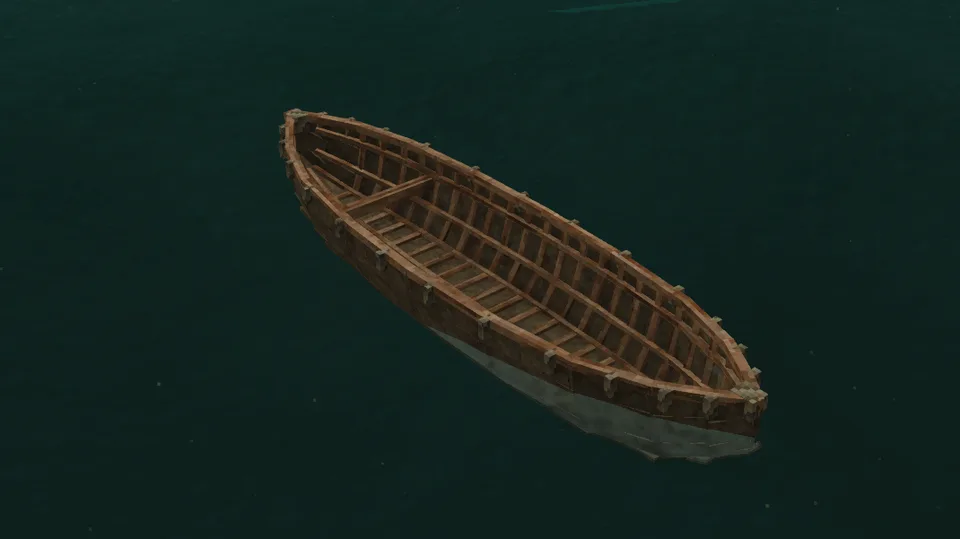
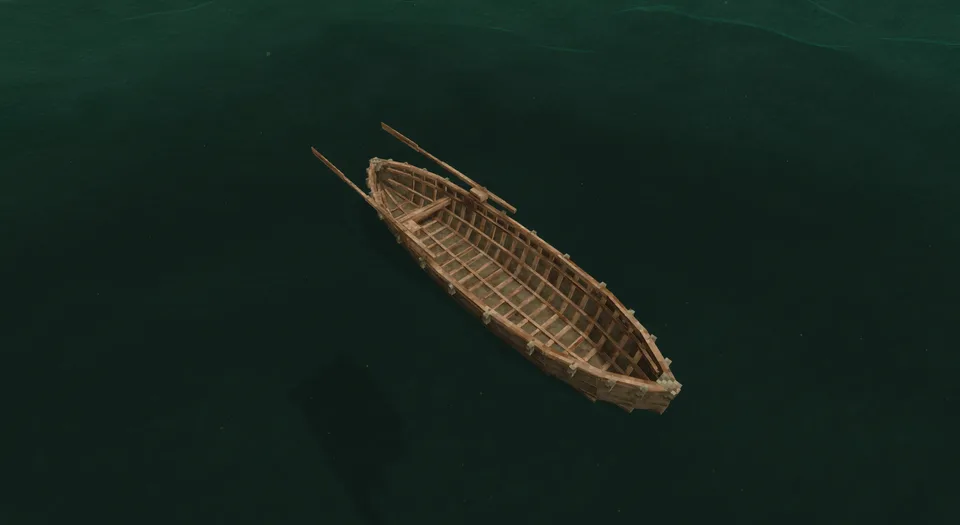
224 docs: speeds by the physics across the wiki, the currach photographed with her oars, recipes and strokes shown
[claude-opus-5-5] on behalf of hoblin

Changed region(s): [[0.2812, 0.1829, 0.8125, 0.8533]]

diff --git a/docs/wiki/Surf-and-Swamping.md b/docs/wiki/Surf-and-Swamping.md
@@ -35,7 +35,7 @@ Boats with a hull hold that water in their [bilge](Bailing), with what their [cr
 A litre of seawater weighs a kilogram, and a bilge holds hundreds. As it fills, a boat:
 
 - **rides lower.** With one aboard, a full bilge brings her gunwale down to the water, so each wave comes aboard more easily than the last;
-- **gets slower.** It paddles as hard and pushes a heavier hull, so the lighter the boat for her bilge, the more its water slows it: half full, a dugout or a coracle keeps four fifths of its speed and a hide currach, whose bilge holds 25 times her weight, two thirds. A load slows her the same way, a second rider or a hold of chests, and a hull of a light wood is a little faster than oak: a kapok dugout makes an eighth more speed, an ebony one a sixteenth less;
+- **gets slower.** It paddles as hard and pushes a heavier hull, so the lighter the boat for her bilge, the more its water slows it: half full, a dugout keeps four fifths of its speed, a bark canoe or a coracle three quarters, and a hide currach, whose bilge holds 25 times her weight, three fifths. A load slows her the same way, a second rider or a hold of chests, and a hull of a light wood is a little faster than oak: a kapok dugout makes 8% more speed, an ebony one 4% less ([how](The-Science-of-the-Hull#driving-her));
 - **rolls harder.** The water sloshing across the bilge leans with every roll and adds to it, twice the roll when full, and a breaker half as high overturns it.
 
 ## Swamping

diff --git a/docs/wiki/Paddles-Poles-and-Oars.md b/docs/wiki/Paddles-Poles-and-Oars.md
@@ -23,6 +23,13 @@ A pole reaches the bottom at about these depths, a little less from the currach,
 - Paddling, poling and rowing make you hungry, about as much as sprinting does.
 - A round, short hull turns easily and goes slowly: the coracle spins on the spot. A long one runs straight and turns slowly; the outrigger's float makes her slowest of all to turn.
 
+| | |
+| --- | --- |
+| ![Paddling a bark canoe along her side](images/propulsion/paddling.webp) | ![Poling a dugout off the bottom](images/propulsion/poling.webp) |
+| A paddle along the side | A pole off the bottom |
+| ![Rowing a currach on her thole pins](images/propulsion/rowing.webp) | ![Sculling a coracle over her bow](images/propulsion/sculling.webp) |
+| The currach's oars on their thole pins | A coracle sculled over her bow |
+
 ## How fast
 
 One rower, the average finisher of a canoe marathon, on calm water with nothing else aboard; poled in a metre of water with a 3 m pole. A load slows her, and a crack that floods her more.

diff --git a/docs/wiki/Vessels.md b/docs/wiki/Vessels.md
@@ -15,8 +15,8 @@ Vanilla gives you two ways onto the water, the raft and the sailboat, and nothin
 | Vessel | For | Speed | Weakness |
 | --- | --- | --- | --- |
 | [Hide currach](Hide-Currach) | the first venture along the coast, cargo included | 2.5 m/s, rowed | needs greasing, one hard knock holes it |
-| [Outrigger canoe](Outrigger-Canoe) | fast crossings of open sea | 2.7 ×, sailing | stays where launched |
-| [Sailboat](Sailboat) | long voyages and heavy cargo | 2.5 ×, sailing | dear to build, ships water fast in a gale |
+| [Outrigger canoe](Outrigger-Canoe) | fast crossings of open sea | 5.9 m/s, sailing | stays where launched |
+| [Sailboat](Sailboat) | long voyages and heavy cargo | 7.2 m/s, sailing | dear to build, ships water fast in a gale |
 
 Speeds are one rower's, paddled unless noted, on calm water; under sail what the wind gives. Each tool and how fast it drives each vessel: [paddles, poles and oars](Paddles-Poles-and-Oars).
 

diff --git a/docs/wiki/Outrigger-Canoe.md b/docs/wiki/Outrigger-Canoe.md
@@ -14,7 +14,7 @@ The outrigger is the boat of the Austronesian expansion, the greatest migration 
 
 | | |
 | --- | --- |
-| Speed | 2.7 × the raft under full sail, faster than the sailboat |
+| Speed | 5.9 m/s under full sail, at vanilla's pace until sailing reads the wind; 1.6 m/s paddled, 1.8 m/s poled ([how fast](Paddles-Poles-and-Oars#how-fast)) |
 | Turning | clumsy, 14° a second paddled |
 | [Hull](Hull-Condition) | 30 000 J in oak, more in harder [woods](Hull-Condition#what-it-is-made-of): her hull is the dugout's |
 | Upkeep | none |

diff --git a/docs/wiki/Sailboat.md b/docs/wiki/Sailboat.md
@@ -14,7 +14,7 @@ Open, square-sailed boats of planks carried the coastal trade of northern Europe
 
 | | |
 | --- | --- |
-| Speed | 2.5 × the raft under full sail |
+| Speed | 7.2 m/s under full sail, at vanilla's pace |
 | Turning | steady |
 | [Hull](Hull-Condition) | 40 000 J in oak, more in harder [woods](Hull-Condition#what-it-is-made-of) |
 | Upkeep | none |
